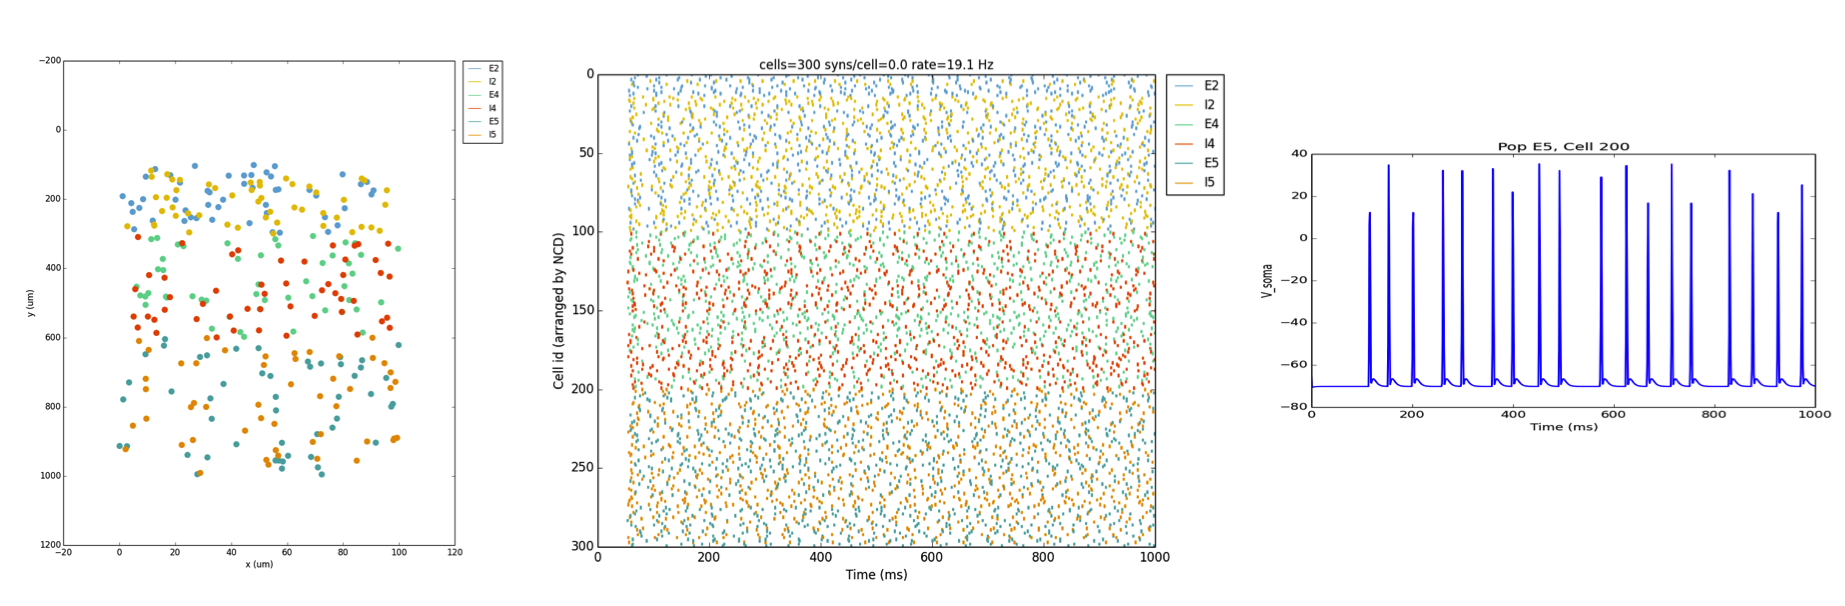
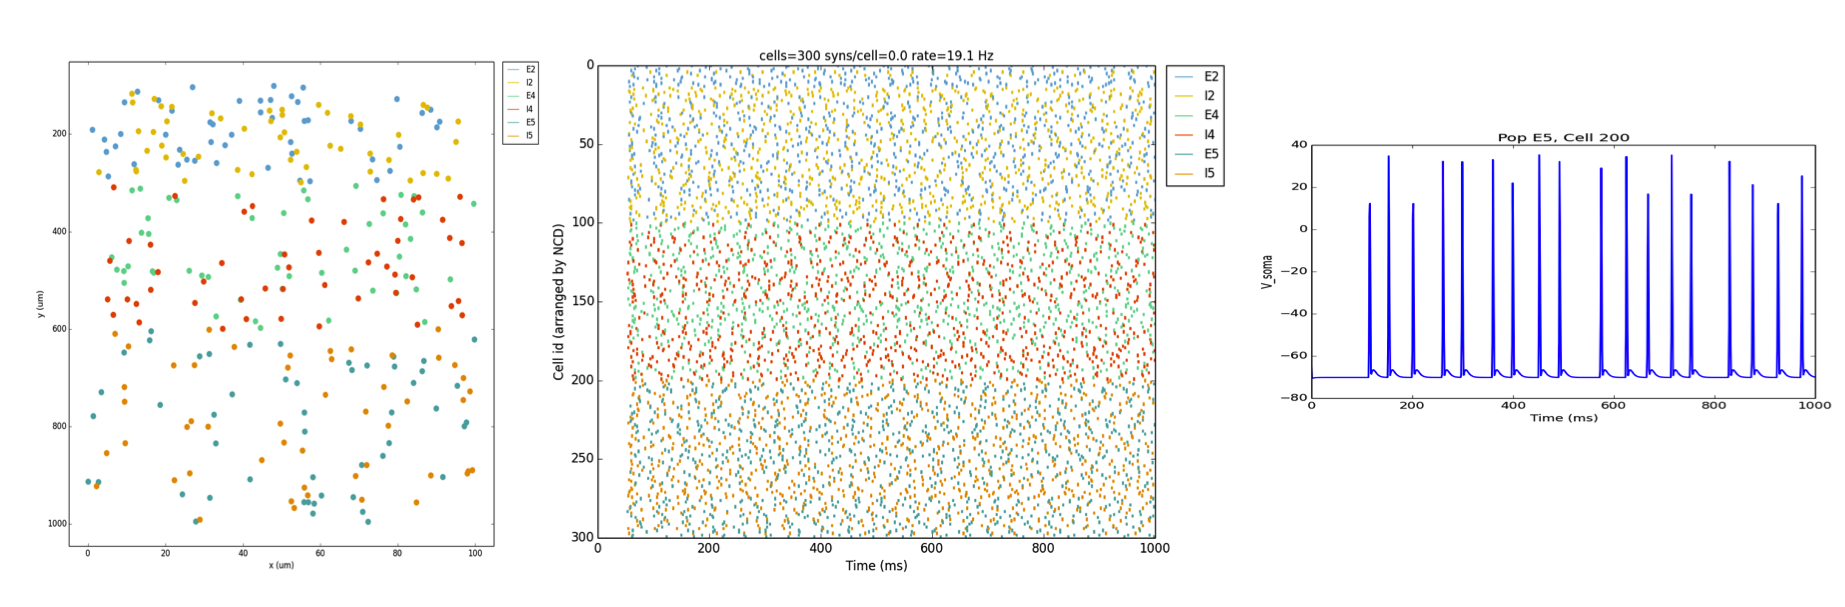
added stuff to tut5

diff --git a/doc/source/code/tut5.py b/doc/source/code/tut5.py
@@ -5,31 +5,31 @@ netParams = {}  # dictionary to store sets of network parameters
 
 netParams['sizeX'] = 100 # x-dimension (horizontal length) size in um
 netParams['sizeY'] = 1000 # y-dimension (vertical height or cortical depth) size in um
-netParams['sizeZ'] = 100 # y-dimension (vertical height or cortical depth) size in um
+netParams['sizeZ'] = 100 # z-dimension (horizontal length) size in um
 netParams['propVelocity'] = 100.0 # propagation velocity (um/ms)
 netParams['probLengthConst'] = 150.0 # propagation velocity (um/ms)
 
 
 ## Population parameters
 netParams['popParams'] = []  # list of populations - each item will contain dict with pop params
-netParams['popParams'].append({'popLabel': 'E2', 'cellType': 'PYR', 'numCells': 50, 'ynormRange': [0.1,0.3], 'cellModel': 'HH'}) 
-netParams['popParams'].append({'popLabel': 'I2', 'cellType': 'BAS', 'numCells': 50, 'ynormRange': [0.1,0.3], 'cellModel': 'HH'}) 
-netParams['popParams'].append({'popLabel': 'E4', 'cellType': 'PYR', 'numCells': 50, 'ynormRange': [0.3,0.6], 'cellModel': 'HH'}) 
-netParams['popParams'].append({'popLabel': 'I4', 'cellType': 'BAS', 'numCells': 50, 'ynormRange': [0.3,0.6], 'cellModel': 'HH'}) 
-netParams['popParams'].append({'popLabel': 'E5', 'cellType': 'PYR', 'numCells': 50, 'ynormRange': [0.6,1.0], 'cellModel': 'HH'}) 
-netParams['popParams'].append({'popLabel': 'I5', 'cellType': 'BAS', 'numCells': 50, 'ynormRange': [0.6,1.0], 'cellModel': 'HH'}) 
+netParams['popParams'].append({'popLabel': 'E2', 'cellType': 'E', 'numCells': 50, 'yRange': [100,300], 'cellModel': 'HH'}) 
+netParams['popParams'].append({'popLabel': 'I2', 'cellType': 'I', 'numCells': 50, 'yRange': [100,300], 'cellModel': 'HH'}) 
+netParams['popParams'].append({'popLabel': 'E4', 'cellType': 'E', 'numCells': 50, 'yRange': [300,600], 'cellModel': 'HH'}) 
+netParams['popParams'].append({'popLabel': 'I4', 'cellType': 'I', 'numCells': 50, 'yRange': [300,600], 'cellModel': 'HH'}) 
+netParams['popParams'].append({'popLabel': 'E5', 'cellType': 'E', 'numCells': 50, 'ynormRange': [0.6,1.0], 'cellModel': 'HH'}) 
+netParams['popParams'].append({'popLabel': 'I5', 'cellType': 'I', 'numCells': 50, 'ynormRange': [0.6,1.0], 'cellModel': 'HH'}) 
 netParams['popParams'].append({'popLabel': 'background', 'rate': 20, 'noise': 0.3, 'cellModel': 'NetStim'})
 
 ## Cell property rules
 netParams['cellParams'] = [] # list of cell property rules - each item will contain dict with cell properties
-cellRule = {'label': 'PYRrule', 'conditions': {'cellType': 'PYR'},  'sections': {}}     # cell rule dict
+cellRule = {'label': 'PYRrule', 'conditions': {'cellType': 'E'},  'sections': {}}     # cell rule dict
 soma = {'geom': {}, 'mechs': {}}                                            # soma params dict
 soma['geom'] = {'diam': 15, 'L': 14, 'Ra': 120.0}                                   # soma geometry
 soma['mechs']['hh'] = {'gnabar': 0.13, 'gkbar': 0.036, 'gl': 0.003, 'el': -70}          # soma hh mechanism
 cellRule['sections'] = {'soma': soma}                                                   # add soma section to dict
 netParams['cellParams'].append(cellRule)                                                # add dict to list of cell par
 
-cellRule = {'label': 'BASrule', 'conditions': {'cellType': 'BAS'},  'sections': {}}     # cell rule dict
+cellRule = {'label': 'BASrule', 'conditions': {'cellType': 'I'},  'sections': {}}     # cell rule dict
 soma = {'geom': {}, 'mechs': {}}                                            # soma params dict
 soma['geom'] = {'diam': 10.0, 'L': 9.0, 'Ra': 110.0}                                    # soma geometry
 soma['mechs']['hh'] = {'gnabar': 0.12, 'gkbar': 0.036, 'gl': 0.003, 'el': -70}          # soma hh mechanism
@@ -46,22 +46,22 @@ netParams['synMechParams'].append({'label': 'inh', 'mod': 'Exp2Syn', 'tau1': 0.6
 ## Cell connectivity rules
 netParams['connParams'] = [] 
 
-netParams['connParams'].append({'preTags': {'popLabel': 'background'}, 'postTags': {'cellType': ['PYR', 'BAS']}, # background -> all
+netParams['connParams'].append({'preTags': {'popLabel': 'background'}, 'postTags': {'cellType': ['E', 'I']}, # background -> all
   'weight': 0.01,                     # synaptic weight 
   'delay': 'max(1, gauss(5,2))',      # transmission delay (ms) 
   'synMech': 'exc'})                  # synaptic mechanism 
 
-netParams['connParams'].append({'preTags': {'cellType': 'PYR'}, 'postTags': {'y': [100,1000]},  #  E -> all (100-1000 um)
-  'probability': 0.1,#'uniform(0.05,0.2)',    # probability of connection
-  'weight': '0.005*post_ynorm',         # synaptic weight 
-  'delay': 'dist_3D/propVelocity',      # transmission delay (ms) 
-  'synMech': 'exc'})                    # synaptic mechanism 
+# netParams['connParams'].append({'preTags': {'cellType': 'E'}, 'postTags': {'y': [100,1000]},  #  E -> all (100-1000 um)
+#   'probability': 0.1,#'uniform(0.05,0.2)',    # probability of connection
+#   'weight': '0.005*post_ynorm',         # synaptic weight 
+#   'delay': 'dist_3D/propVelocity',      # transmission delay (ms) 
+#   'synMech': 'exc'})                    # synaptic mechanism 
 
-netParams['connParams'].append({'preTags': {'cellType': 'BAS'}, 'postTags': {'popLabel': ['E2','E4','E5']},       #  I -> E
-  'probability': '0.4*exp(-dist_3D/probLengthConst)',   # probability of connection
-  'weight': 0.001,                                     # synaptic weight 
-  'delay': 'dist_3D/propVelocity',                    # transmission delay (ms) 
-  'synMech': 'inh'})                                  # synaptic mechanism 
+# netParams['connParams'].append({'preTags': {'cellType': 'I'}, 'postTags': {'popLabel': ['E2','E4','E5']},       #  I -> E
+#   'probability': '0.4*exp(-dist_3D/probLengthConst)',   # probability of connection
+#   'weight': 0.001,                                     # synaptic weight 
+#   'delay': 'dist_3D/propVelocity',                    # transmission delay (ms) 
+#   'synMech': 'inh'})                                  # synaptic mechanism 
 
 
 # Simulation options
@@ -76,7 +76,7 @@ simConfig['savePickle'] = False         # Save params, network and sim output to
 simConfig['plotRaster'] = True          # Plot a raster
 simConfig['orderRasterYnorm'] = 1       # Order cells in raster by yfrac (default is by pop and cell id)
 simConfig['plotCells'] = ['E2','E4','E5']    # Plot recorded traces for this list of cells
-simConfig['plot2Dnet'] = True           # Plot recorded traces for this list of cells
+simConfig['plot2Dnet'] = True           # plot 2D visualization of cell positions and connections
 
 
 # Create network and run simulation

diff --git a/doc/source/code/tut2.py b/doc/source/code/tut2.py
@@ -50,7 +50,7 @@ simConfig['filename'] = 'model_output'  # Set file output name
 simConfig['savePickle'] = False 		# Save params, network and sim output to pickle file
 simConfig['plotRaster'] = True 			# Plot a raster
 simConfig['plotCells'] = [1] 			# Plot recorded traces for this list of cells
-simConfig['plot2Dnet'] = True           # Plot recorded traces for this list of cells
+simConfig['plot2Dnet'] = True           # plot 2D visualization of cell positions and connections
 
 
 # Create network and run simulation

diff --git a/doc/source/code/tut3.py b/doc/source/code/tut3.py
@@ -54,7 +54,7 @@ simConfig['filename'] = 'model_output'  # Set file output name
 simConfig['savePickle'] = False 		# Save params, network and sim output to pickle file
 simConfig['plotRaster'] = True 			# Plot a raster
 simConfig['plotCells'] = [1]	 		# Plot recorded traces for this list of cells
-simConfig['plot2Dnet'] = True           # Plot recorded traces for this list of cells
+simConfig['plot2Dnet'] = True           # plot 2D visualization of cell positions and connections
 
 
 # Create network and run simulation

diff --git a/doc/source/code/tut4.py b/doc/source/code/tut4.py
@@ -61,7 +61,7 @@ simConfig['filename'] = 'model_output'  # Set file output name
 simConfig['savePickle'] = False 		# Save params, network and sim output to pickle file
 simConfig['plotRaster'] = True 			# Plot a raster
 simConfig['plotCells'] = [1] 			# Plot recorded traces for this list of cells
-simConfig['plot2Dnet'] = True           # Plot recorded traces for this list of cells
+simConfig['plot2Dnet'] = True           # plot 2D visualization of cell positions and connections
 
 
 # Create network and run simulation

diff --git a/netpyne/analysis.py b/netpyne/analysis.py
@@ -259,7 +259,9 @@ def plot2Dnet():
             width = 0.1 #50*con['weight']
             plot([posXpre, posXpost], [posYpre, posYpost], color=color, linewidth=width) # plot line from pre to post
     xlabel('x (um)')
-    ylabel('y (um)')  
+    ylabel('y (um)') 
+    xlim([min(posX)-0.05*max(posX),1.05*max(posX)]) 
+    ylim([min(posY)-0.05*max(posY),1.05*max(posY)])
     fontsiz = 12
     for popLabel in popLabels:
         plot(0,0,color=popColors[popLabel],label=popLabel)

diff --git a/doc/source/tutorial.rst b/doc/source/tutorial.rst
@@ -350,13 +350,104 @@ Position and distance based connectivity
 
 The following example demonstrates how to spatially separate populations, add inhbitory populations, and implement weights, probabilities of connection and delays that depend on cell positions or distances.
 
-We will build a cortical-like network with 6 populations (3 excitatory and 3 inhubitory) distributed in 3 layers: layer 2/3, layer 4 and layer 5.
+We will build a cortical-like network with 6 populations (3 excitatory and 3 inhibitory) distributed in 3 layers: 2/3, 4 and 5. Create a new empty file called ``tut5.py`` and lets add the required code.   
+
+Since we want to distribute the cells spatially, the first thing we need to do is define the volume dimensions where cells will be placed. By convention we take the X and Z to be the horizontal or lateral dimensions, and Y to be the vertical dimension (representing cortical depth in this case.) To define a cuboid with volume of 100x1000x100 um (ie. horizontal spread of 100x100 um and cortical depth of 1000um) we can use the ``sizeX``, ``sizeY`` and ``sizeZ`` network parameters as follows::
+
+	from netpyne import init
+
+	# Network parameters
+	netParams = {}  # dictionary to store sets of network parameters
+
+	netParams['sizeX'] = 100 # x-dimension (horizontal length) size in um
+	netParams['sizeY'] = 1000 # y-dimension (vertical height or cortical depth) size in um
+	netParams['sizeZ'] = 100 # z-dimension (horizontal length) size in um
+
+Next we can create our background input popualtion and the 6 cortical populations labeled according to the cell type and layer eg. 'E2' for excitatory cells in layer 2. We can define the cortical depth range of each population by using the ``yRange`` parameter, eg. to place layer 2 cells between 100 and 300 um depth: ``'yRange': [100,300]``. This range can also be specified using normalized values, eg. ``'yRange': [0.1,0.3]``. In the code below we provide examples of both methods for illustration::
+
+	## Population parameters
+	netParams['popParams'] = []  # list of populations - each item will contain dict with pop params
+	netParams['popParams'].append({'popLabel': 'E2', 'cellType': 'E', 'numCells': 50, 'yRange': [100,300], 'cellModel': 'HH'}) 
+	netParams['popParams'].append({'popLabel': 'I2', 'cellType': 'I', 'numCells': 50, 'yRange': [100,300], 'cellModel': 'HH'}) 
+	netParams['popParams'].append({'popLabel': 'E4', 'cellType': 'E', 'numCells': 50, 'yRange': [300,600], 'cellModel': 'HH'}) 
+	netParams['popParams'].append({'popLabel': 'I4', 'cellType': 'I', 'numCells': 50, 'yRange': [300,600], 'cellModel': 'HH'}) 
+	netParams['popParams'].append({'popLabel': 'E5', 'cellType': 'E', 'numCells': 50, 'ynormRange': [0.6,1.0], 'cellModel': 'HH'}) 
+	netParams['popParams'].append({'popLabel': 'I5', 'cellType': 'I', 'numCells': 50, 'ynormRange': [0.6,1.0], 'cellModel': 'HH'}) 
+	netParams['popParams'].append({'popLabel': 'background', 'rate': 20, 'noise': 0.3, 'cellModel': 'NetStim'})
+
+
+Next we define the cell properties of each type of cell ('E' for excitatory and 'I' for inhibitory). We have made minor random modifications of some cell parameters just to illustrate that different cell types can have different properties::
+
+	## Cell property rules
+	netParams['cellParams'] = [] # list of cell property rules - each item will contain dict with cell properties
+	cellRule = {'label': 'Erule', 'conditions': {'cellType': 'E'},  'sections': {}}     # cell rule dict
+	soma = {'geom': {}, 'mechs': {}}                                            # soma params dict
+	soma['geom'] = {'diam': 15, 'L': 14, 'Ra': 120.0}                                   # soma geometry
+	soma['mechs']['hh'] = {'gnabar': 0.13, 'gkbar': 0.036, 'gl': 0.003, 'el': -70}          # soma hh mechanism
+	cellRule['sections'] = {'soma': soma}                                                   # add soma section to dict
+	netParams['cellParams'].append(cellRule)                                                # add dict to list of cell par
+
+	cellRule = {'label': 'Irule', 'conditions': {'cellType': 'I'},  'sections': {}}     # cell rule dict
+	soma = {'geom': {}, 'mechs': {}}                                            # soma params dict
+	soma['geom'] = {'diam': 10.0, 'L': 9.0, 'Ra': 110.0}                                    # soma geometry
+	soma['mechs']['hh'] = {'gnabar': 0.11, 'gkbar': 0.036, 'gl': 0.003, 'el': -70}          # soma hh mechanism
+	cellRule['sections'] = {'soma': soma}                                                   # add soma section to dict
+	netParams['cellParams'].append(cellRule)                                                # add dict to list of cell par
+
+
+As in previous examples we also add the parameters of the excitatory and inhibitory synaptic mechanisms, which will be added to cells when the connections are created::
+
+	## Synaptic mechanism parameters
+	netParams['synMechParams'] = []
+	netParams['synMechParams'].append({'label': 'exc', 'mod': 'Exp2Syn', 'tau1': 0.8, 'tau2': 5.3, 'e': 0})  # exc synaptic mechanism
+	netParams['synMechParams'].append({'label': 'inh', 'mod': 'Exp2Syn', 'tau1': 0.6, 'tau2': 8.5, 'e': -75})  # inh synaptic mechanism
+
+
+In terms of connectivity, we'll start by adding background inputs to all cell in the network. The weight will be fixed to 0.01, but we'll make the delay come from a gaussian distribution with mean 5 ms and standard deviation 2, and have a minimum value of 1 ms. We can do this using string-based functions: ``'max(1, gauss(5,2)'``. As detailed in section :ref:`function_string`, string-based functions allow you to define connectivity params using many Python mathematical operators and functions. The full code to add background inputs looks like this::
+
+
+	## Cell connectivity rules
+	netParams['connParams'] = [] 
+
+	netParams['connParams'].append({'preTags': {'popLabel': 'background'}, 'postTags': {'cellType': ['E', 'I']}, # background -> all
+	  'weight': 0.01,                     # synaptic weight 
+	  'delay': 'max(1, gauss(5,2))',      # transmission delay (ms) 
+	  'synMech': 'exc'})                  # synaptic mechanism 
+
+
+We can now add the standard simulation configuration options and the code to create and run the network. Notice that we have chosen to record and plot voltage traces of one cell in each of the excitatory populations (``simConfig['plotCells'] = ['E2','E4','E5']``) , and to show a 2D visualization of cell positions and connections (``simConfig['plot2Dnet'] = True)``)::
+
+	# Simulation options
+	simConfig = {}
+	simConfig['duration'] = 1*1e3           # Duration of the simulation, in ms
+	simConfig['dt'] = 0.1                 # Internal integration timestep to use
+	simConfig['verbose'] = False            # Show detailed messages 
+	simConfig['recordTraces'] = {'V_soma':{'sec':'soma','pos':0.5,'var':'v'}}  # Dict with traces to record
+	simConfig['recordStep'] = 1             # Step size in ms to save data (eg. V traces, LFP, etc)
+	simConfig['filename'] = 'model_output'  # Set file output name
+	simConfig['savePickle'] = False         # Save params, network and sim output to pickle file
+	simConfig['plotRaster'] = True          # Plot a raster
+	simConfig['orderRasterYnorm'] = 1       # Order cells in raster by yfrac (default is by pop and cell id)
+	simConfig['plotCells'] = ['E2','E4','E5']    # Plot recorded traces for this list of cells
+	simConfig['plot2Dnet'] = True           # plot 2D visualization of cell positions and connections
+
+	# Create network and run simulation
+	init.createAndSimulate(netParams = netParams, simConfig = simConfig)    
+
+
 
 First we will create the populations, distribute them spatially, and provide background input:
 
 .. image:: figs/tut5_1.png
 	:width: 95%
 	:align: center
+
+
+
+netParams['propVelocity'] = 100.0 # propagation velocity (um/ms)
+netParams['probLengthConst'] = 150.0 # propagation velocity (um/ms)
+
+
 
 Next, add cortical-depth dependent excitatory connections (notice depolarization blockade due to higher weights in lowe layer):
 
